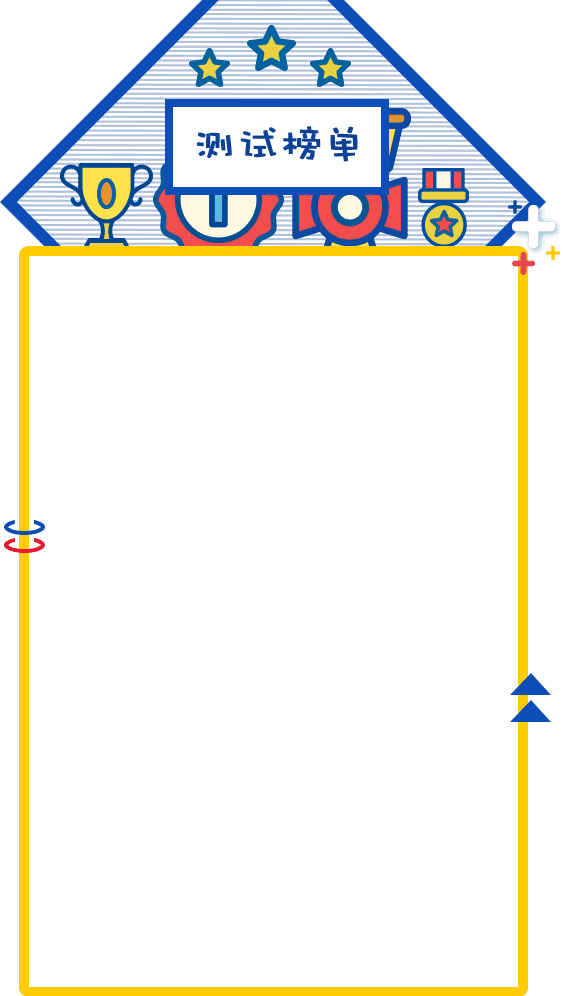
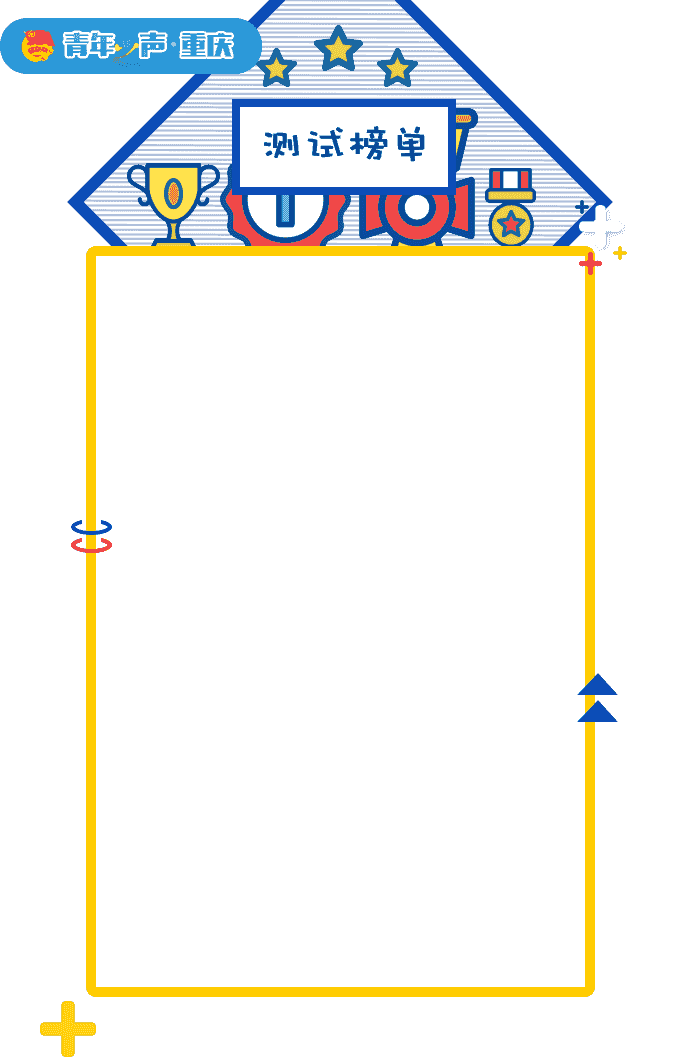
样式调整

Changed region(s): [[0.0, 0.0, 0.9964, 1.0]]

diff --git a/Public/css/rank.css b/Public/css/rank.css
@@ -10,24 +10,23 @@
                 margin: 0;
                 padding: 0;
                 height: 84%;
-                padding-left: 12.9%;
                 background-size: 100% 100%;
                 -webkit-tap-highlight-color:rgba(0,0,0,0);
-                background-image: url(../images/ques-bg.png);
+                background-image: url(../images/rank.png);
             }
 
             .rank-wrapper {
-                width: 88%;
-                height: 93%;
+                margin-left: 5%;
+                height: 97%;
                 background-size: 100% 100%;
                 background-image: url(../images/rank-bg.png);
             }
 
             .content {
-                width: 82%;
-                height: 76%;
-                margin-left: 6.9%;
-                padding-top: 45.2%;
+                width: 68%;
+                height: 81%;
+                padding-top: 37.2%;
+                padding-left: 14.5%;
             }
 
             .my-rank-info {
@@ -51,15 +50,15 @@
 
 
             .rank-list {
-                height: 63%;
+                height: 57%;
                 margin-top: 3%;
                 overflow: auto;
             }
 
             .rank-column {
                 color: #1c3eba;
+                padding: 2% 5%;
                 font-size: 12px;
-                padding: 2% 2.5%;
                 overflow: hidden;
             }
 
@@ -92,7 +91,7 @@
             .return-index {
                 width: 40%;
                 height: 9%;
-                margin: 6% 21%;
+                margin: 3% 31%;
                 background-size: 100% 100%;
                 background-image: url(../images/return-index.png);
             }

diff --git a/Public/js/rank.js b/Public/js/rank.js
@@ -12,17 +12,17 @@ $(function() {
             var rankListTpl = '';
             for (var i = 0; i < list.length; i++) {
                 rankListTpl += '<div class="rank-column">';
-                if (list[i]['nickname'].length >= 10) {
-                    var nickname = list[i]['nickname'].substr(0, 9) + '...';
+                if (list[i]['nickname'].length >= 8) {
+                    var nickname = list[i]['nickname'].substr(0, 7) + '...';
                 } else {
                     var nickname = list[i]['nickname'];
                 }
                 rankListTpl += '<div class="nickname"><img src="' + list[i]['avatar'] + '"><div style="margin-left: 4%; float: left; font-size: 14px;">' + nickname + '</div></div>';
 
                 if (list[i]['rank'] != Number(list[i]['rank'])) {
-                    rankListTpl += '<div class="ranking"><img style="width: 55%; height: 52%;" src="' + list[i]['rank'] + '"></div>';
+                    rankListTpl += '<div class="ranking" style="margin-right: 3%"><img style="width: 55%; height: 52%;" src="' + list[i]['rank'] + '"></div>';
                 } else {
-                    rankListTpl += '<div class="ranking"><span>' + list[i]['rank'] + '</span></div>';
+                    rankListTpl += '<div class="ranking" style="margin-right: 4%"><span>' + list[i]['rank'] + '</span></div>';
                 }
                 rankListTpl += '</div>';
             }

diff --git a/Application/Home/View/Index/rank.html b/Application/Home/View/Index/rank.html
@@ -21,7 +21,7 @@
                 </div>
                 <div class="rank-list">
                     <div class="rank-column">
-                        <div class="nickname">昵称</div>
+                        <div class="nickname" style="margin-left: 7%">昵称</div>
                         <div class="ranking">名次</div>
                     </div>
                 </div>
